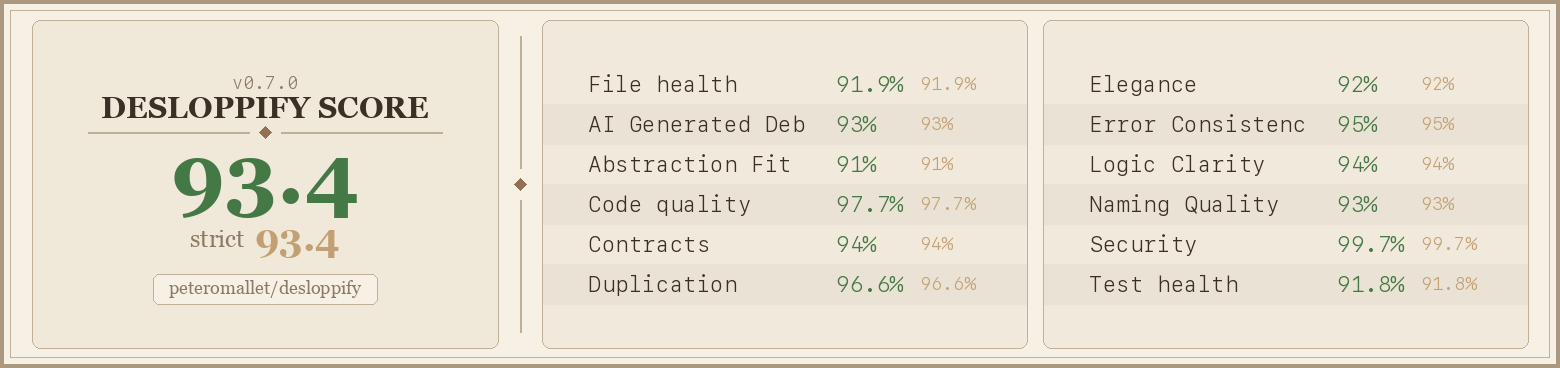
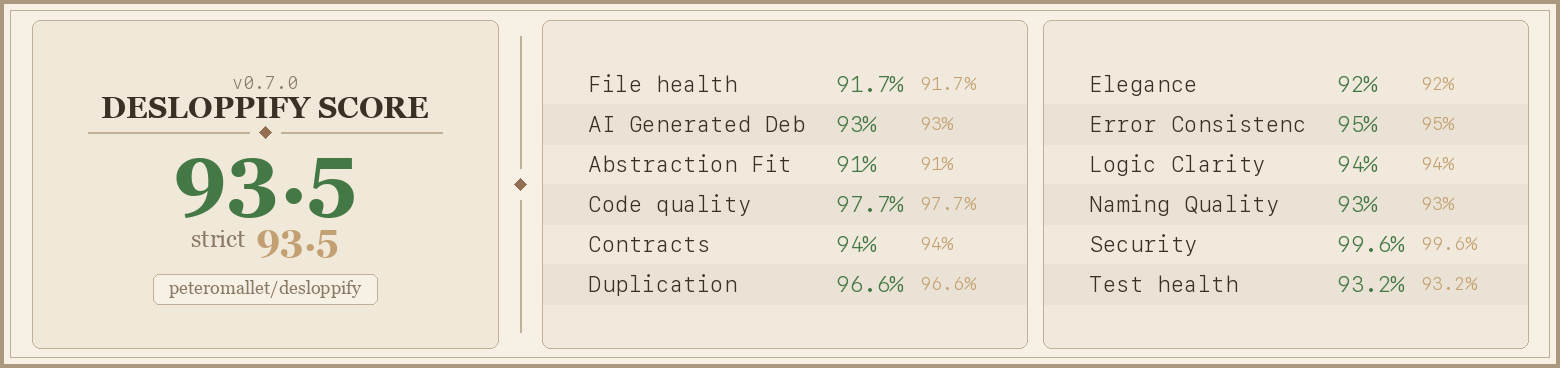
Fix test coverage detector: resolve submodule imports in dep graph
Bug: `from package import submodule` resolved only to `__init__.py`,
not to `submodule.py`. This caused modules with dedicated test files
to appear as "transitive_only" because the dep graph never recorded
the import edge to the actual submodule file.

Two fixes:
- deps.py: pass import_names to _resolve_python_from_import for all
  from-imports (was only passed for dots-only imports). Try resolving
  each imported name as a submodule within the package.
- test_coverage.py: parse_test_import_specs now emits both package
  and package.name specs for `from X import Y` (fallback path).

Test coverage findings: 38 -> 16 (22 resolved)
Test health: 88.5% -> 93.2% (total improvement including new tests)

diff --git a/desloppify/languages/python/detectors/deps.py b/desloppify/languages/python/detectors/deps.py
@@ -78,16 +78,10 @@ def build_dep_graph(
                 module = node.module or ""
                 module_path = dots + module
 
-                # Resolve each imported name for dots-only imports (from . import X)
-                if not module and node.level:
-                    import_names = ", ".join(a.name for a in node.names)
-                    targets = _resolve_python_from_import(
-                        module_path, import_names, filepath, path
-                    )
-                else:
-                    targets = _resolve_python_from_import(
-                        module_path, "", filepath, path
-                    )
+                import_names = ", ".join(a.name for a in node.names)
+                targets = _resolve_python_from_import(
+                    module_path, import_names, filepath, path
+                )
 
                 for target in targets:
                     graph[source_resolved]["imports"].add(target)
@@ -157,8 +151,27 @@ def _resolve_python_from_import(
         return results
     else:
         # Normal case: from .foo import bar, from ..foo.bar import baz
+        results = []
         target = _resolve_python_import(module_path, source_file, scan_root_path)
-        return [target] if target else []
+
+        # Also try resolving each imported name as a submodule.
+        # e.g. ``from desloppify.engine._state import filtering`` should
+        # resolve to ``_state/filtering.py``, not just ``_state/__init__.py``.
+        if target and import_names:
+            names = [n.strip().split()[0] for n in import_names.split(",")]
+            for name in names:
+                name = name.strip("()")
+                if not name:
+                    continue
+                submod = _resolve_python_import(
+                    f"{module_path}.{name}", source_file, scan_root_path
+                )
+                if submod:
+                    results.append(submod)
+
+        if target:
+            results.append(target)
+        return results
 
 
 def _resolve_python_import(

diff --git a/desloppify/languages/python/test_coverage.py b/desloppify/languages/python/test_coverage.py
@@ -10,7 +10,7 @@ _PY_DEF_RE = re.compile(r"^\s*(?:async\s+)?def\s+", re.MULTILINE)
 
 # Import parsing helpers
 PY_IMPORT_RE = re.compile(
-    r"^\s*(?:from\s+([\w.]+)\s+import|import\s+([\w.]+))", re.MULTILINE
+    r"^\s*(?:from\s+([\w.]+)\s+import\s+(\w+)|import\s+([\w.]+))", re.MULTILINE
 )
 
 ASSERT_PATTERNS = [
@@ -74,12 +74,24 @@ def resolve_barrel_reexports(_filepath: str, _production_files: set[str]) -> set
 
 
 def parse_test_import_specs(content: str) -> list[str]:
-    """Extract import specs from Python test content."""
+    """Extract import specs from Python test content.
+
+    For ``from package import name``, emits both ``package`` and
+    ``package.name`` so that submodule imports (e.g.
+    ``from desloppify.engine._state import filtering``) resolve to
+    the submodule file rather than just the package ``__init__.py``.
+    """
     specs: list[str] = []
     for m in PY_IMPORT_RE.finditer(content):
-        module = m.group(1) or m.group(2)
-        if module:
-            specs.append(module)
+        if m.group(3):
+            # Plain ``import X.Y.Z``
+            specs.append(m.group(3))
+        elif m.group(1):
+            package = m.group(1)
+            imported_name = m.group(2)
+            specs.append(package)
+            if imported_name:
+                specs.append(f"{package}.{imported_name}")
     return specs
 
 
